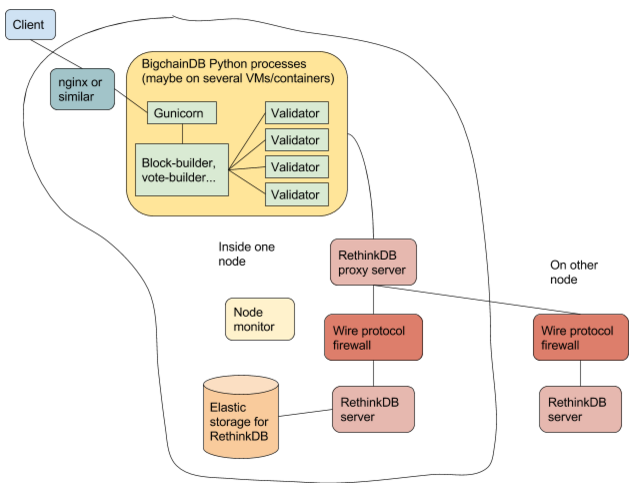
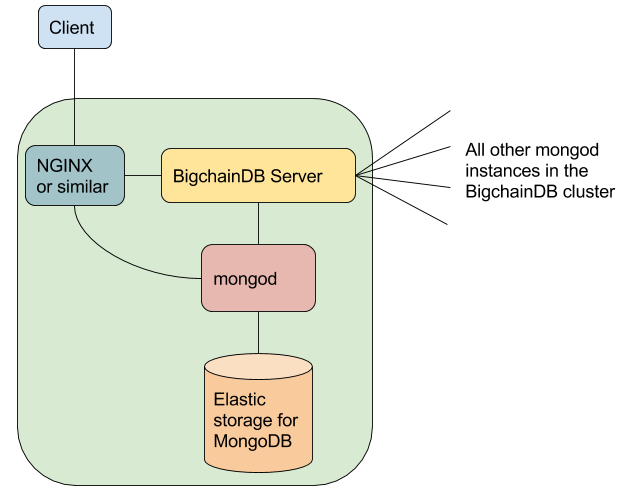
updated docs page: Production Node Components

diff --git a/bigchaindb/docs/server/source/production-nodes/node-components.md b/bigchaindb/docs/server/source/production-nodes/node-components.md
@@ -1,23 +1,16 @@
 # Production Node Components
 
-A BigchainDB node must include, at least:
+A production BigchainDB node must include BigchainDB Server, MongoDB Server (mongod), and scalable storage for MongoDB, but it could include several other components, including:
 
-* BigchainDB Server and
-* RethinkDB Server.
-
-When doing development and testing, it's common to install both on the same machine, but in a production environment, it may make more sense to install them on separate machines.
-
-In a production environment, a BigchainDB node should have several other components, including:
-
-* nginx or similar, as a reverse proxy and/or load balancer for the Gunicorn server(s) inside the node
-* An NTP daemon running on all machines running BigchainDB code, and possibly other machines
-* A RethinkDB proxy server
-* A RethinkDB "wire protocol firewall" (in the future: this component doesn't exist yet)
-* Scalable storage for RethinkDB (e.g. using RAID)
-* Monitoring software, to monitor all the machines in the node
-* Configuration management agents (if you're using a configuration managment system that uses agents)
+* NGINX or similar, to provide authentication, rate limiting, etc.
+* An NTP daemon running on all machines running BigchainDB Server or mongod, and possibly other machines
+* **Not** MongoDB Automation Agent. It's for automating the deployment of an entire MongoDB cluster, not just one MongoDB node within a cluster.
+* MongoDB Monitoring Agent
+* MongoDB Backup Agent
+* Log aggregation software
+* Monitoring software
 * Maybe more
 
-The relationship between these components is illustrated below.
+The relationship between the main components is illustrated below. Note that BigchainDB Server must be able to communicate with all other mongod instances in the BigchainDB cluster (i.e. in other BigchainDB nodes).
 
-![Components of a node](../_static/Node-components.png)
+![Components of a production node](../_static/Node-components.png)
